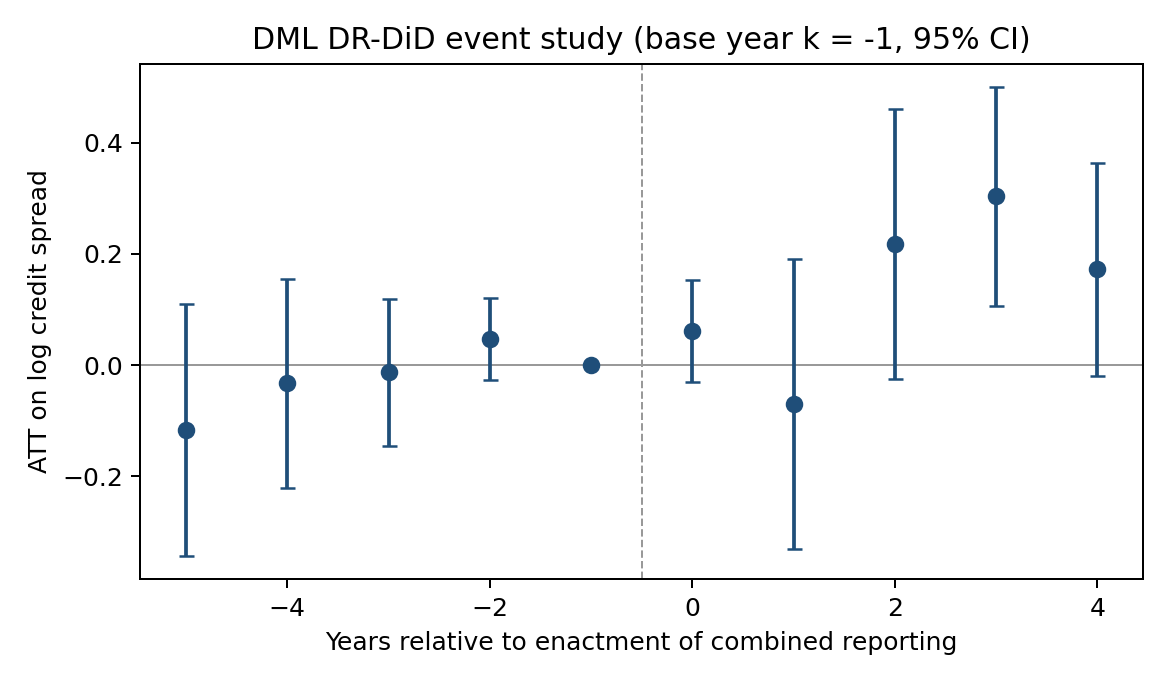
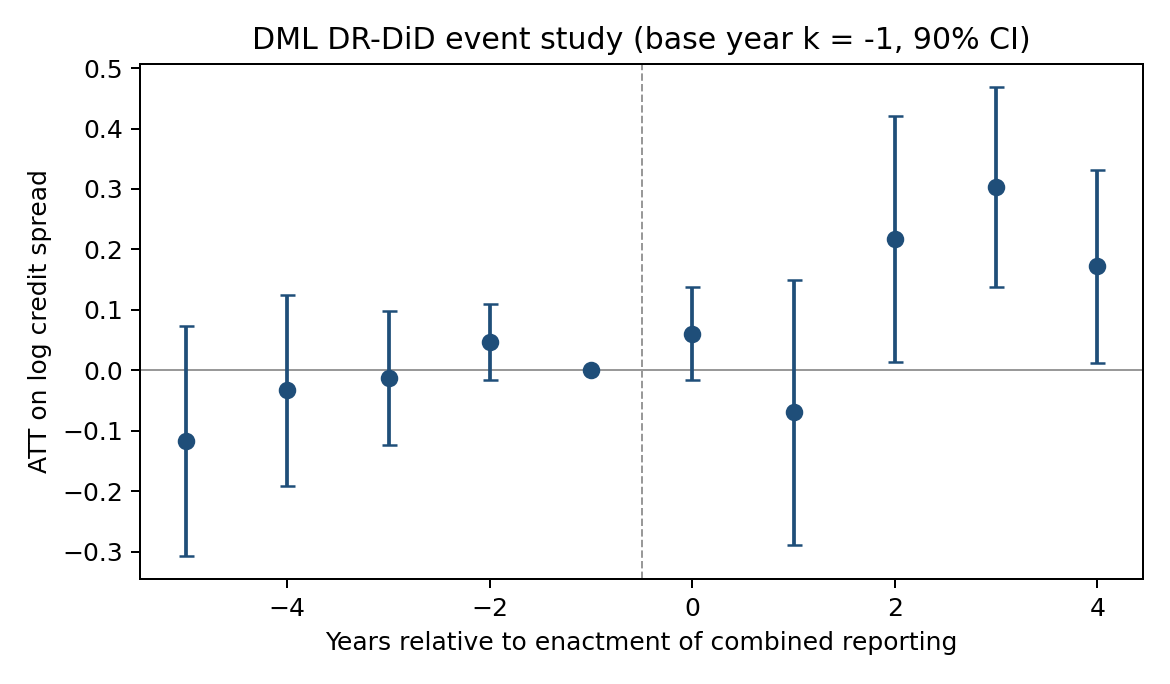
Show 90% confidence intervals in event-study figures

diff --git a/crisis_tests.py b/crisis_tests.py
@@ -116,14 +116,14 @@ def main():
     for ax, (name, g) in zip(axes, es_all.groupby("spec", sort=False)):
         ax.axhline(0, color="0.6", lw=0.8)
         ax.axvline(-0.5, color="0.6", lw=0.8, ls="--")
-        ax.errorbar(main_es.k - 0.12, main_es.theta, yerr=1.96 * main_es.se, fmt="o", color="#9aa5b1",
+        ax.errorbar(main_es.k - 0.12, main_es.theta, yerr=1.645 * main_es.se, fmt="o", color="#9aa5b1",
                     capsize=3, ms=4, label="main (all cohorts)")
-        ax.errorbar(g.k + 0.12, g.theta, yerr=1.96 * g.se, fmt="o", color="#1f4e79", capsize=3, label=name[3:])
+        ax.errorbar(g.k + 0.12, g.theta, yerr=1.645 * g.se, fmt="o", color="#1f4e79", capsize=3, label=name[3:])
         ax.set_title(name, fontsize=10)
         ax.set_xlabel("Years relative to enactment")
         ax.legend(frameon=False, fontsize=7, loc="upper left")
     axes[0].set_ylabel("ATT on log credit spread")
-    fig.suptitle("Separating combined reporting from the 2008-09 crisis (DML DR-DiD, 95% CI)", fontsize=11)
+    fig.suptitle("Separating combined reporting from the 2008-09 crisis (DML DR-DiD, 90% CI)", fontsize=11)
     fig.tight_layout()
     fig.savefig(ra.RES / "crisis_event_studies.png", dpi=180)
     log("done")

diff --git a/event_study_drop_crisis.py b/event_study_drop_crisis.py
@@ -33,13 +33,13 @@ def main():
     ax.axhline(0, color="0.6", lw=0.8)
     ax.axvline(-0.5, color="0.6", lw=0.8, ls="--")
     off = 0.12
-    ax.errorbar(main_es.k - off, main_es.theta, yerr=1.96 * main_es.se, fmt="o", color="#9aa5b1",
+    ax.errorbar(main_es.k - off, main_es.theta, yerr=1.645 * main_es.se, fmt="o", color="#9aa5b1",
                 capsize=3, label="all cohorts (main)")
-    ax.errorbar(es.k + off, es.theta, yerr=1.96 * es.se, fmt="o", color="#1f4e79", capsize=3,
+    ax.errorbar(es.k + off, es.theta, yerr=1.645 * es.se, fmt="o", color="#1f4e79", capsize=3,
                 label="drop 2007-09 cohorts (MI, WV, MA, WI)")
     ax.set_xlabel("Years relative to enactment of combined reporting")
     ax.set_ylabel("ATT on log credit spread")
-    ax.set_title("DML DR-DiD event study, dropping 2007-09 cohorts (95% CI)")
+    ax.set_title("DML DR-DiD event study, dropping 2007-09 cohorts (90% CI)")
     ax.legend(frameon=False, fontsize=8, loc="upper left")
     fig.tight_layout()
     fig.savefig(ra.RES / "event_study_drop0709.png", dpi=180)

diff --git a/headline_figure.py b/headline_figure.py
@@ -22,10 +22,10 @@ def main():
     fig, ax = plt.subplots(figsize=(6.5, 3.8))
     ax.axhline(0, color="0.6", lw=0.8)
     ax.axvline(-0.5, color="0.6", lw=0.8, ls="--")
-    ax.errorbar(es.k, es.theta, yerr=1.96 * es.se, fmt="o", color="#1f4e79", capsize=3)
+    ax.errorbar(es.k, es.theta, yerr=1.645 * es.se, fmt="o", color="#1f4e79", capsize=3)
     ax.set_xlabel("Years relative to enactment of combined reporting")
     ax.set_ylabel("ATT on log credit spread")
-    ax.set_title("DML DR-DiD event study, excluding Texas (base year k = -1, 95% CI)", fontsize=11)
+    ax.set_title("DML DR-DiD event study, excluding Texas (base year k = -1, 90% CI)", fontsize=11)
     fig.tight_layout()
     fig.savefig(RES / "event_study_headline.png", dpi=180)
 

diff --git a/run_analysis.py b/run_analysis.py
@@ -191,10 +191,10 @@ def main():
     fig, ax = plt.subplots(figsize=(6.5, 3.8))
     ax.axhline(0, color="0.6", lw=0.8)
     ax.axvline(-0.5, color="0.6", lw=0.8, ls="--")
-    ax.errorbar(es.k, es.theta, yerr=1.96 * es.se, fmt="o", color="#1f4e79", capsize=3)
+    ax.errorbar(es.k, es.theta, yerr=1.645 * es.se, fmt="o", color="#1f4e79", capsize=3)
     ax.set_xlabel("Years relative to enactment of combined reporting")
     ax.set_ylabel("ATT on log credit spread")
-    ax.set_title("DML DR-DiD event study (base year k = -1, 95% CI)")
+    ax.set_title("DML DR-DiD event study (base year k = -1, 90% CI)")
     fig.tight_layout()
     fig.savefig(RES / "event_study.png", dpi=180)
 

diff --git a/README.md b/README.md
@@ -36,7 +36,7 @@ stacked difference-in-differences design estimated with double machine learning.
 ![Event study excluding Texas](results/event_study_headline.png)
 
 *Effect of combined reporting on log credit spreads by year relative to enactment, excluding the Texas 2006 cohort
-(DML doubly-robust DiD, base year −1, 95% confidence intervals; 296 firm × cohort units).*
+(DML doubly-robust DiD, base year −1, 90% confidence intervals; 296 firm × cohort units).*
 
 ![Event study, all cohorts](results/event_study.png)
 

diff --git a/docs/paper.md b/docs/paper.md
@@ -192,7 +192,7 @@ enactment. The effect then builds, reaching 0.22 log points in year two and 0.30
 ![Figure 1](../results/event_study.png)
 
 *Figure 1. DML doubly-robust event study. Effect on log credit spreads by year relative to enactment; base year −1;
-95 percent confidence intervals.*
+90 percent confidence intervals.*
 
 | Year | −5 | −4 | −3 | −2 | −1 | 0 | 1 | 2 | 3 | 4 |
 |---|---|---|---|---|---|---|---|---|---|---|
